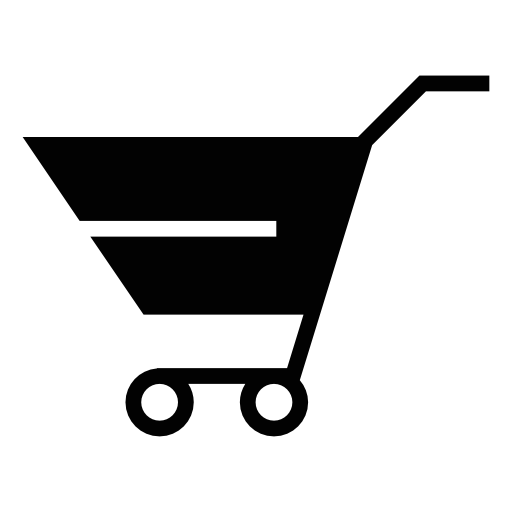
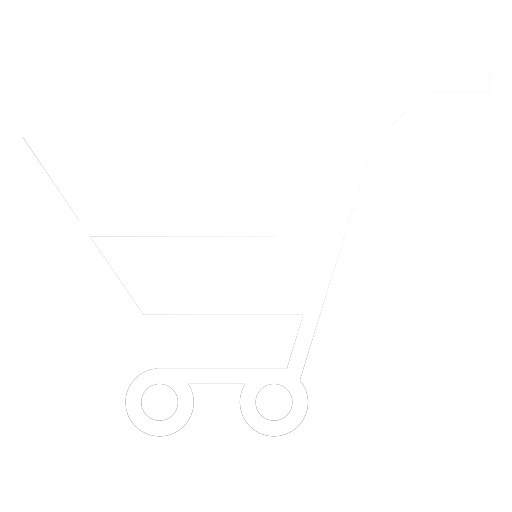
Right side of navbar. Finish navbar.

Changed region(s): [[0.0312, 0.125, 0.9688, 0.875]]

diff --git a/style.css b/style.css
@@ -5,6 +5,8 @@ body {
 	-webkit-font-smoothing: antialiased;
 }
 
+/***NAVBAR***/
+
 nav {
 	width: 100%;
 	height: 40px;
@@ -33,3 +35,38 @@ nav {
 	border-radius: 6px;
 	margin: 8.5px 0;
 }
+
+.login ul {
+	list-style: none;
+	margin: 0;
+	padding: 0;
+	font-size: 11pt;
+}
+
+	
+.login ul li {
+	float: right;
+	margin: 9.5px 8px;
+}
+
+.login ul li a{
+	text-decoration: none;
+	color: white;
+	font-weight: bold;
+}
+
+.login ul li:nth-child(3) {
+	margin-right: 5px;
+	margin-left: 0;
+	padding-left: 8px;
+	border-left: 1px solid white;
+}
+
+.sign-in {
+	background-color: #283655;
+	padding: 4px;
+	border-radius: 6px;
+}
+
+
+

diff --git a/index.html b/index.html
@@ -16,10 +16,19 @@
 
 			<div class="search-bar">
 				<input type="text" placeholder="Search for courses">
+				<!--
+				<div class="search-icon"> <i src=""></i> </div>
+				-->
 			</div>
 
 			<div class="login">
-				
+				<ul>
+					<li style="margin-top: 6px; margin-right: 15px;> <a href="#"> <img src="img/cart.png" width="25px" alt="Shopping cart"> </a> </li>
+					<li> <a href="#"><span class="sign-in">Sign In </span> </a> </li>
+					<li> <a href="#"> Log In </a> </li>
+					<li> <a href="#"> Enterprise </a> </li>
+					<li> <a href="#"> Categories </a> </li>
+				</ul>
 			</div>		
 		</nav>
 
